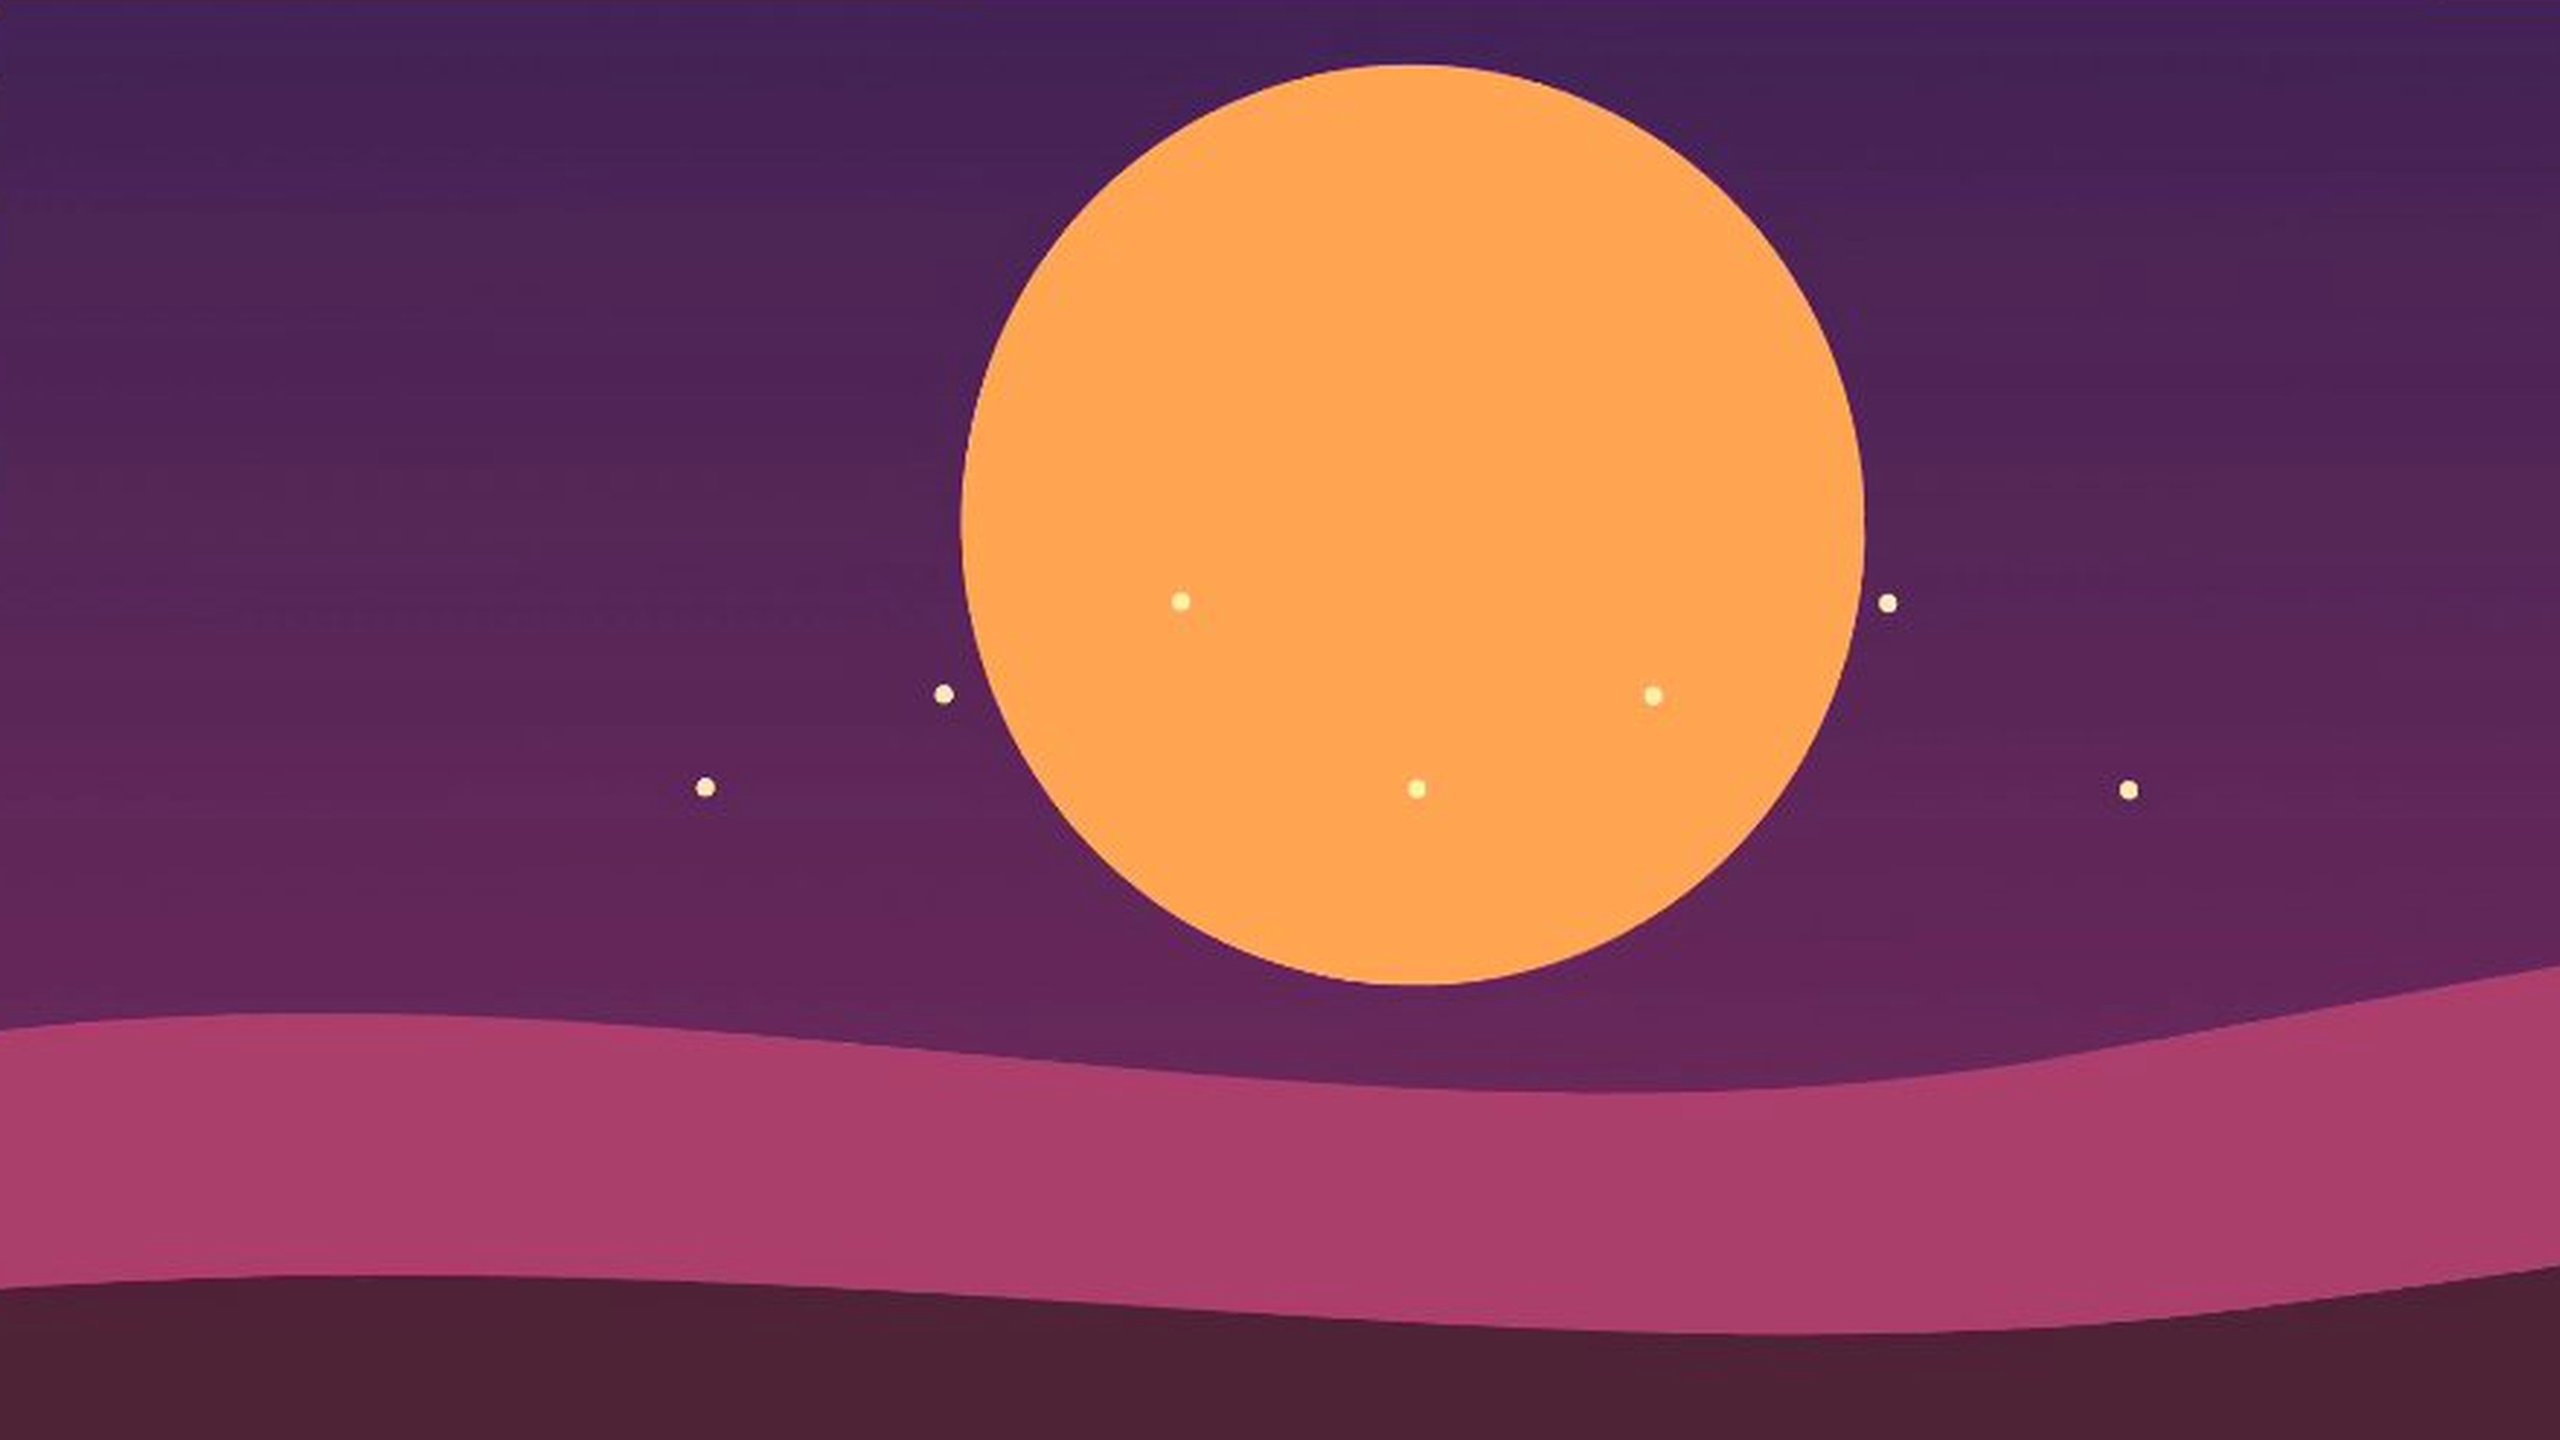
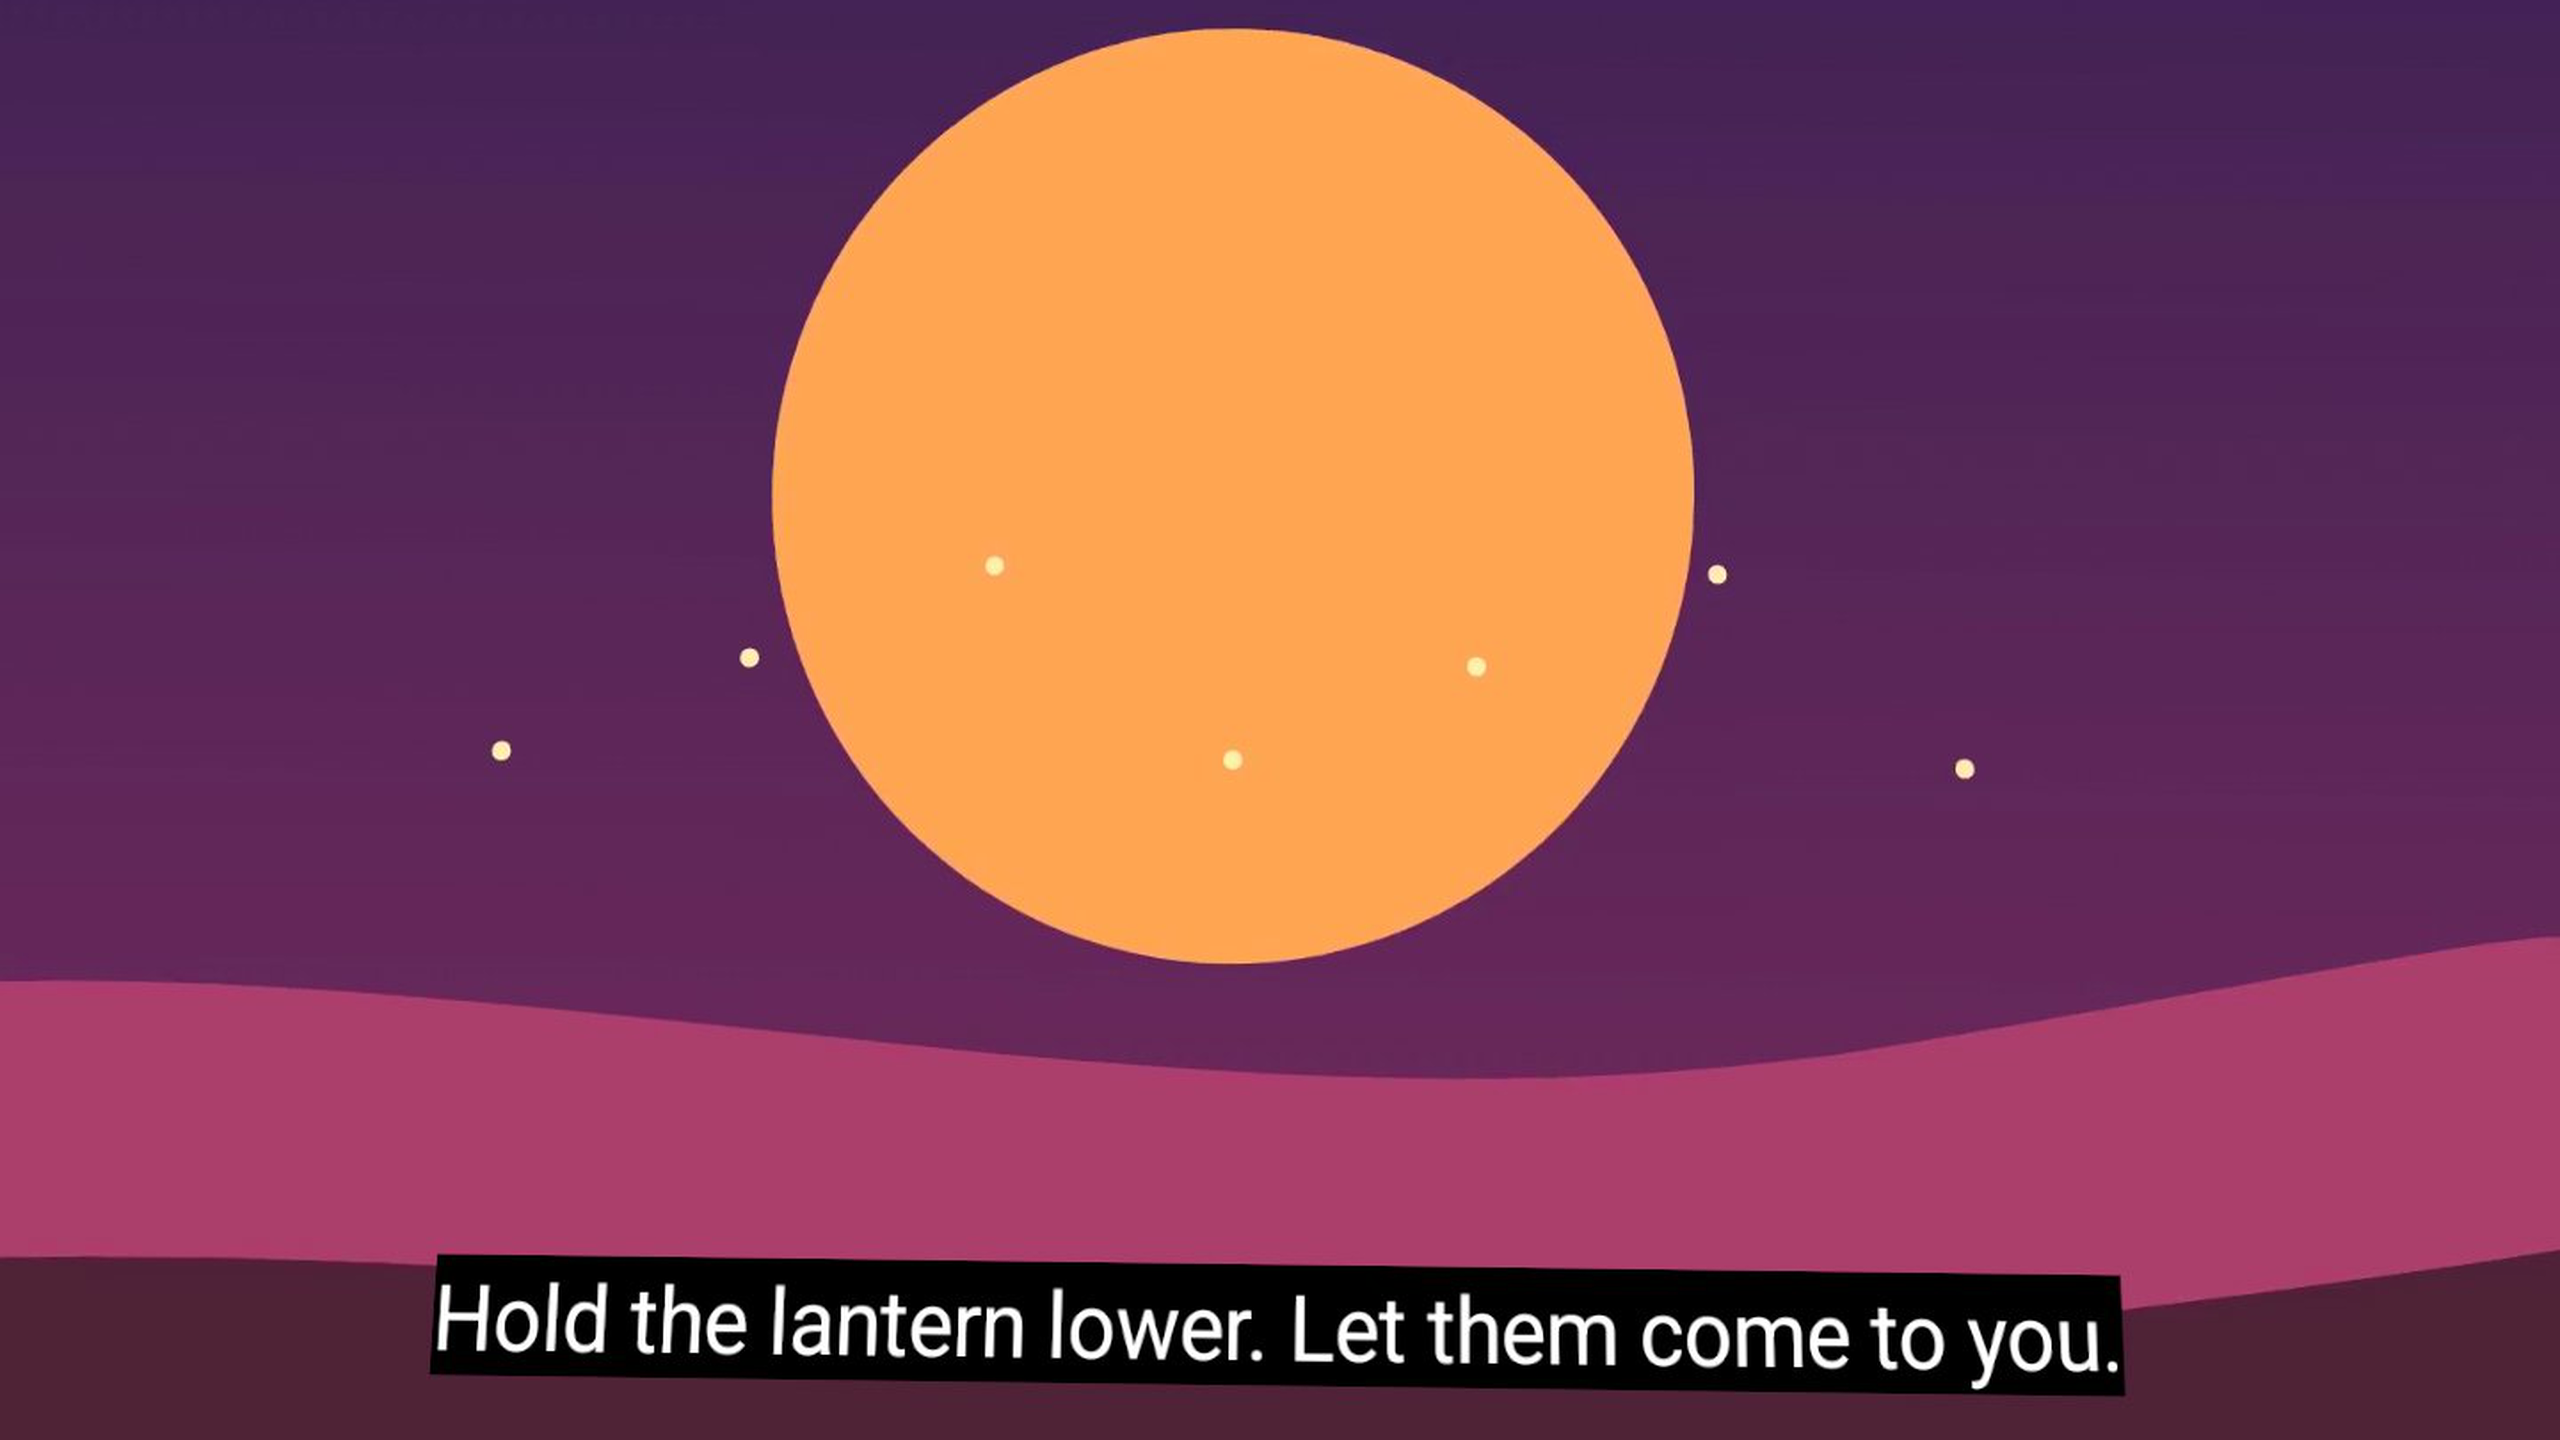
fix: retake the cinema screenshot full-bleed with a subtitle

diff --git a/README.md b/README.md
@@ -71,13 +71,13 @@ Meta requires real captures from the headset, so `store/screenshot-1.png` to `-5
 
 4. Capture, tapping with `tools/quest-dev.ps1 tap` in dp:
    - Home, the Movies tab, Perihelion's details, and Lantern Season S01E04 playing in the window with its controls shown: `tools/quest-dev.ps1 capture -Scale 2` each, which redraws the window at 2560x1600 with the video frame under it into `build/quest-run/window.png`.
-   - The cinema: Watch in immersive, `tools/quest-dev.ps1 recenter`, tap the controls panel so its bar shows, then take the headset's own screenshot, one undistorted eye at 1440x1440, written to `/sdcard/Oculus/Screenshots`:
+   - The cinema: Watch in immersive with the SRT track on, set the screen to 5.6 m and `tools/quest-dev.ps1 recenter`, then open Cinema settings and grow the screen to about 9.3 m so it fills the eye without moving back. Wait for a subtitle, then take the headset's own screenshot, one undistorted eye at 1440x1440, written to `/sdcard/Oculus/Screenshots`:
 
      ```bash
      adb shell am startservice -n com.oculus.metacam/.capture.CaptureService -a TAKE_SCREENSHOT
      ```
 
-5. Frame at 2560x1440 without adding anything: the browse shots fit on the store art's dark brown, the player is cropped to its 16:9 video, and the cinema eye is cropped to 16:9 inside the screen and scaled up. Meta's pre-check rejects a screenshot with empty borders (VRC.Quest.Asset.5), so no black surroundings may show.
+5. Frame at 2560x1440 without adding anything: the browse shots fit on the store art's dark brown, the player is cropped to its 16:9 video, and the cinema eye is cropped to the 16:9 band inside the screen (`crop=1440:810:0:520`) and scaled up. Meta's pre-check rejects a screenshot with empty borders (VRC.Quest.Asset.5), so no black surroundings may show; the controls panel sits below the screen and cannot be in the frame.
 
    ```bash
    ffmpeg -f lavfi -i color=c=0x2A1C14:s=2560x1440 -i window.png -filter_complex "[1]scale=2304:1440:flags=lanczos[w];[0][w]overlay=128:0,format=rgb24" -frames:v 1 store/screenshot-1.png
